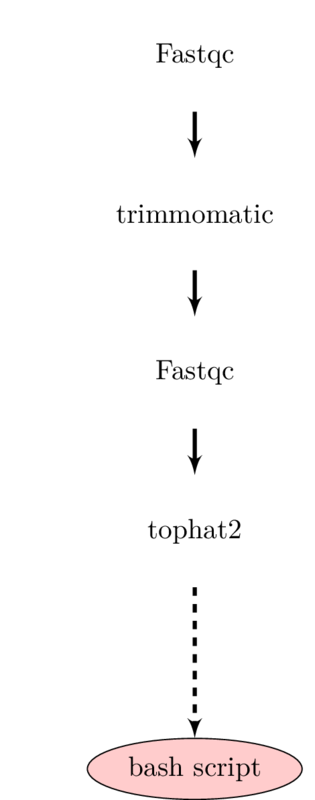
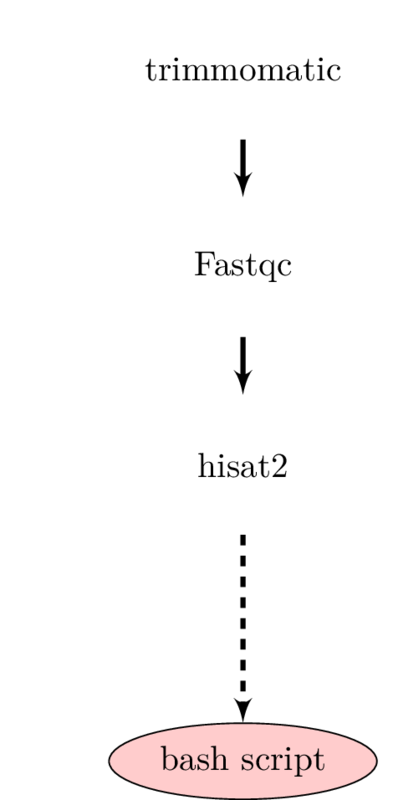
Replaced tophat2 with hisat2

diff --git a/generate_flowchart/useCase0.tex b/generate_flowchart/useCase0.tex
@@ -5,20 +5,20 @@
 \input{macros.tex}
 
 % User case 0: No containers + no CWL
-% Fastqc -> trimmomatic -> Fastqc -> tophat2 (bash script)
+% trimmomatic -> Fastqc -> hisat2 (bash script)
 \begin{tikzpicture}[node distance = 2cm, auto]
   \centering
     % Place nodes
     \node [noContainer] (trimmomatic) {trimmomatic};
     \node [noContainer, below of=trimmomatic] (rightFastqc) {Fastqc};
-    \node [noContainer, above of=trimmomatic] (leftFastqc) {Fastqc};
-    \node [noContainer, below of=rightFastqc] (tophat2) {tophat2};
-    \node [method, below of=tophat2] (bash) {bash script};
+%    \node [noContainer, above of=trimmomatic] (leftFastqc) {Fastqc};
+    \node [noContainer, below of=rightFastqc] (hisat2) {hisat2};
+    \node [method, below of=hisat2] (bash) {bash script};
     % Draw edges
-    \path [arrow] (leftFastqc) -- (trimmomatic);
+ %   \path [arrow] (leftFastqc) -- (trimmomatic);
     \path [arrow] (trimmomatic) -- (rightFastqc);
-    \path [arrow] (rightFastqc) -- (tophat2);
-    \path [line, dashed] (tophat2)--(bash);
+    \path [arrow] (rightFastqc) -- (hisat2);
+    \path [line, dashed] (hisat2)--(bash);
 \end{tikzpicture}
 
 \end{document}

diff --git a/generate_flowchart/useCase11.tex b/generate_flowchart/useCase11.tex
@@ -5,20 +5,20 @@
 \input{macros.tex}
 
 % User case 1: Single containers + no CWL
-%[Fastqc -> trimmomatic -> Fastqc -> tophat2] (bash script)
+%[Fastqc -> trimmomatic -> Fastqc -> hisat2] (bash script)
 \begin{tikzpicture}[node distance = 2cm, auto]
   \centering
   % Place nodes
     \node [singleContainer] (trimmomatic) {trimmomatic};
     \node [singleContainer, below of=trimmomatic] (rightFastqc) {Fastqc};
     \node [singleContainer, above of=trimmomatic] (leftFastqc) {Fastqc};
-    \node [singleContainer, below of=rightFastqc] (tophat2) {tophat2};
-    \node [method, below of=tophat2] (method) {bash script};
+    \node [singleContainer, below of=rightFastqc] (hisat2) {hisat2};
+    \node [method, below of=hisat2] (method) {bash script};
     % Draw edges
     \path [arrow] (leftFastqc) -- (trimmomatic);
     \path [arrow] (trimmomatic) -- (rightFastqc);
-    \path [arrow] (rightFastqc) -- (tophat2);
-    \path [line, dashed] (tophat2)--(method);
+    \path [arrow] (rightFastqc) -- (hisat2);
+    \path [line, dashed] (hisat2)--(method);
 \end{tikzpicture}
 
 \end{document}

diff --git a/generate_flowchart/useCase2.tex b/generate_flowchart/useCase2.tex
@@ -5,20 +5,20 @@
 \input{macros.tex}
 
 % User case 2: Multiple containers + no CWL
-% [Fastqc] -> [trimmomatic] -> [Fastqc] -> [tophat2]  (bash script)
+% [Fastqc] -> [trimmomatic] -> [Fastqc] -> [hisat2]  (bash script)
 \begin{tikzpicture}[node distance = 2cm, auto]
   \centering
     % Place nodes
     \node [container] (trimmomatic) {trimmomatic};
     \node [container, below of=trimmomatic] (rightFastqc) {Fastqc};
     \node [container, above of=trimmomatic] (leftFastqc) {Fastqc};
-    \node [container, below of=rightFastqc] (tophat2) {tophat2};
-    \node [method, below of=tophat2] (method) {CWL};
+    \node [container, below of=rightFastqc] (hisat2) {hisat2};
+    \node [method, below of=hisat2] (method) {CWL};
     % Draw edges
     \path [arrow] (leftFastqc) -- (trimmomatic);
     \path [arrow] (trimmomatic) -- (rightFastqc);
-    \path [arrow] (rightFastqc) -- (tophat2);
-    \path [line, dashed] (tophat2)--(method);
+    \path [arrow] (rightFastqc) -- (hisat2);
+    \path [line, dashed] (hisat2)--(method);
 \end{tikzpicture}
 
 \end{document}
